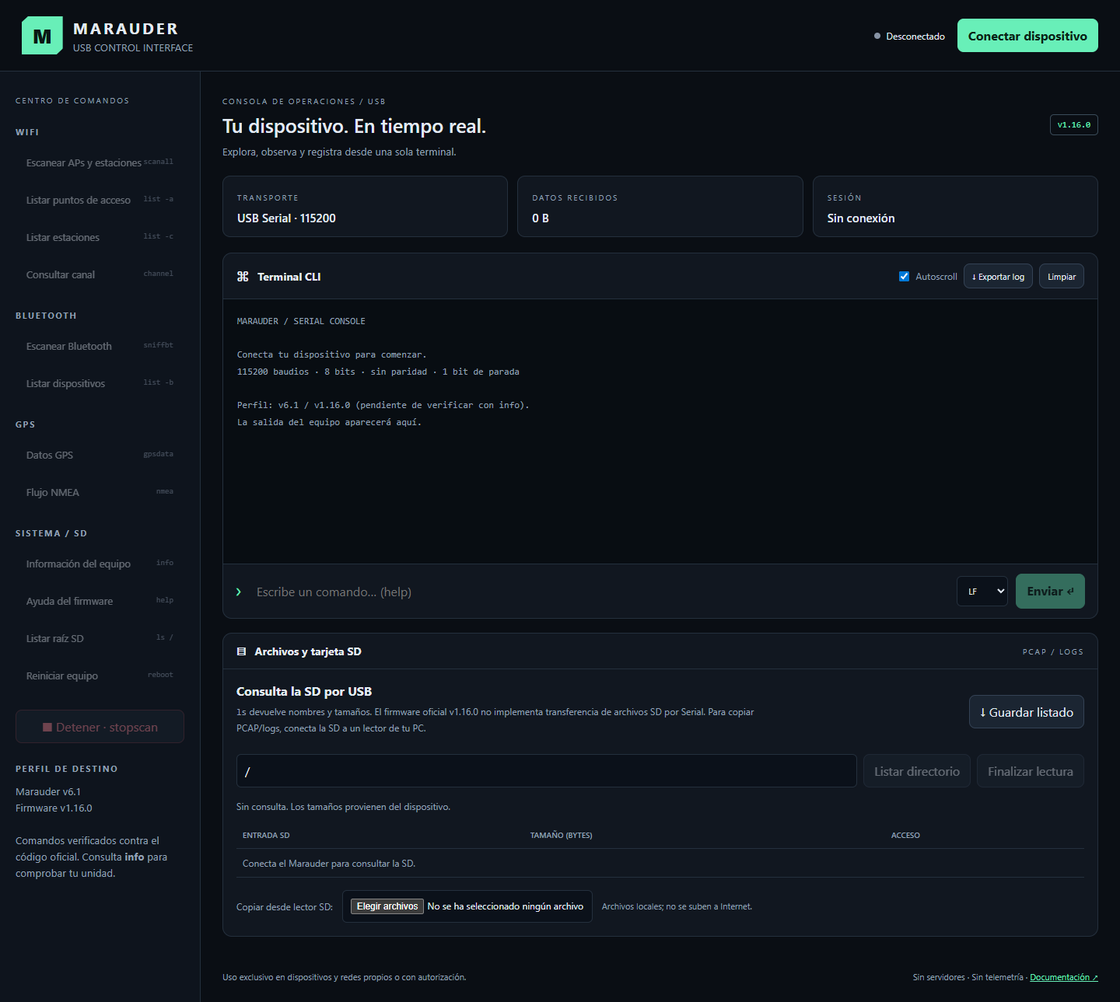
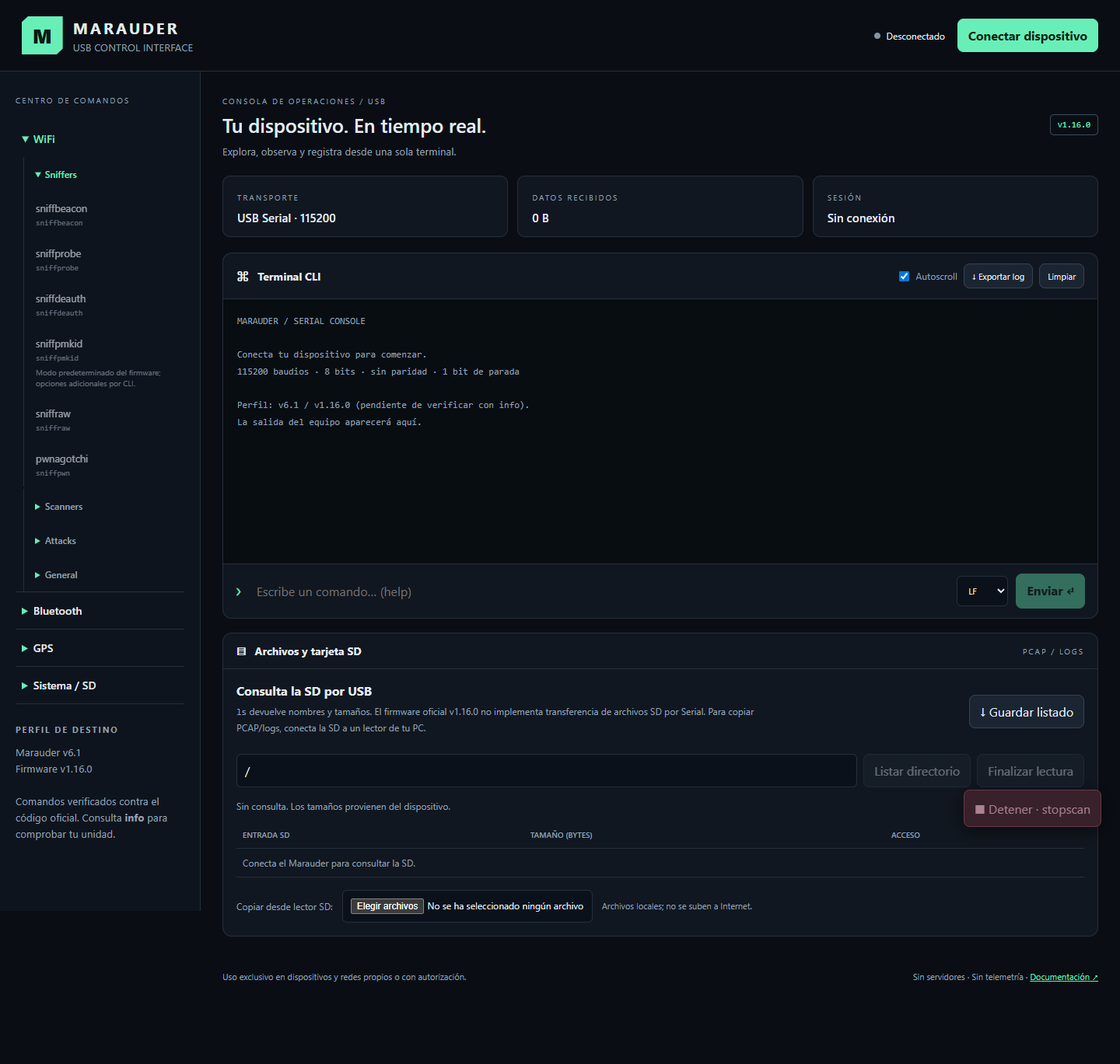
Replace sidebar with hierarchical firmware-mapped accordion controls

diff --git a/index.html b/index.html
@@ -7,11 +7,16 @@
 <title>Marauder · USB control</title>
 <style>
 :root{--bg:#0a0e14;--panel:#111720;--line:#24303d;--muted:#93a1b5;--text:#e4ebf4;--mint:#68efb8;--red:#ff8998;--blue:#8db9ff;font-family:Inter,Segoe UI,system-ui,sans-serif;color:var(--text);background:var(--bg)}*{box-sizing:border-box}body{margin:0}button,input,select{font:inherit}button{cursor:pointer;color:var(--text);background:#1b2532;border:1px solid #344255;border-radius:8px;padding:10px 13px;min-height:42px}button:hover:enabled{border-color:var(--mint);background:#22362f}button:disabled{opacity:.4;cursor:not-allowed}button:focus-visible,input:focus-visible,select:focus-visible,a:focus-visible{outline:2px solid var(--mint);outline-offset:3px}header{min-height:92px;border-bottom:1px solid var(--line);display:flex;align-items:center;justify-content:space-between;padding:20px 28px;gap:20px}.brand{display:flex;align-items:center;gap:13px}.logo{background:var(--mint);color:#0a1813;font-size:25px;font-weight:900;padding:8px 14px;clip-path:polygon(15% 0,100% 0,100% 85%,85% 100%,0 100%,0 15%)}h1{font-size:20px;letter-spacing:3px;margin:0}small,.muted{color:var(--muted)}.eyebrow{font-size:10px;letter-spacing:2px;text-transform:uppercase;color:var(--muted)}.connection{display:flex;align-items:center;gap:16px}.status{font-size:12px;display:flex;gap:8px;align-items:center}.dot{width:8px;height:8px;border-radius:50%;background:#8793a5}.online .dot{background:var(--mint);box-shadow:0 0 14px #68efb855}.primary{background:var(--mint);color:#092417;border-color:var(--mint);font-weight:700}.primary:hover:enabled{background:#98ffd1;color:#092417}.layout{display:grid;grid-template-columns:258px minmax(0,1fr);min-height:calc(100vh - 92px)}aside{padding:24px 20px;border-right:1px solid var(--line);background:#0e141d}h2{font-size:14px;margin:0}h3{font-size:11px;letter-spacing:1.8px;color:var(--muted);text-transform:uppercase;margin:25px 0 10px}.cmd{display:flex;width:100%;align-items:center;justify-content:space-between;margin:6px 0;background:transparent;border-color:transparent;text-align:left;font-size:13px}.cmd code{font-size:10px;color:var(--muted)}.stop{border-color:#683843;color:var(--red);width:100%;margin-top:18px}main{padding:25px 28px;min-width:0}.intro{display:flex;justify-content:space-between;align-items:center;gap:14px;margin-bottom:22px}.intro h2{font-size:25px;font-weight:600;margin:6px 0}.badge{border:1px solid #3a4c5a;border-radius:5px;padding:6px 9px;font:11px monospace;color:var(--mint)}.stats{display:grid;grid-template-columns:repeat(3,1fr);gap:12px;margin-bottom:20px}.stat{padding:14px 18px;background:var(--panel);border:1px solid var(--line);border-radius:10px}.stat strong{display:block;margin-top:8px;font-size:15px;font-weight:500}.panel{border:1px solid var(--line);border-radius:12px;overflow:hidden;background:var(--panel);margin-bottom:18px}.bar{display:flex;justify-content:space-between;align-items:center;padding:13px 17px;border-bottom:1px solid var(--line);gap:12px}.tools{display:flex;gap:8px;align-items:center;flex-wrap:wrap}.tools button{font-size:11px;padding:6px 10px;min-height:32px}.terminal{height:340px;overflow:auto;background:#080d12;padding:18px;margin:0;font:12px/1.8 Consolas,monospace;white-space:pre-wrap;overflow-wrap:anywhere;color:#c6d6e5}.terminal .sys{color:var(--muted)}.terminal .tx{color:var(--mint)}.terminal .error{color:var(--red)}form{display:flex;gap:10px;padding:12px 16px;align-items:center;border-top:1px solid var(--line)}.prompt{color:var(--mint);font-family:monospace}input,select{background:#0b111a;color:var(--text);border:1px solid var(--line);border-radius:6px;padding:10px;min-width:0}#command{flex:1;border:0;background:transparent}select{font-size:11px}label{font-size:12px;color:var(--muted)}.sd-body{padding:17px}.sd-top{display:flex;justify-content:space-between;gap:16px;align-items:center}.sd-top p{font-size:12px;line-height:1.65;max-width:670px;margin:7px 0;color:var(--muted)}.path{display:flex;gap:8px;margin:16px 0}.path input{flex:1}table{width:100%;border-collapse:collapse;font-size:12px}th,td{text-align:left;padding:10px 8px;border-bottom:1px solid var(--line);overflow-wrap:anywhere}th{font-size:10px;color:var(--muted);font-weight:500;text-transform:uppercase}.notice{font-size:12px;padding:12px 16px;border:1px solid #65502d;background:#221e15;border-radius:8px;color:#e6c68d;margin-bottom:18px}.foot{font-size:11px;color:var(--muted);display:flex;justify-content:space-between;gap:12px}.local{margin-top:16px;display:flex;align-items:center;gap:12px;flex-wrap:wrap}.local input{max-width:100%;font-size:12px}#message{font-size:12px;color:var(--red);min-height:18px;margin:8px 0}.check{display:flex;gap:6px;align-items:center}a{color:var(--mint)}@media(min-width:1500px){main{max-width:1400px;width:100%;margin:auto}.terminal{height:450px}}@media(max-width:900px){header{padding:16px}.layout{grid-template-columns:210px minmax(0,1fr)}aside{padding:16px 10px}main{padding:20px 16px}.cmd{display:block}.cmd code{display:block;margin-top:5px}.sd-top{display:block}.status{font-size:11px}.tools{gap:4px}.intro h2{font-size:21px}}@media(max-width:620px){header,.connection{flex-wrap:wrap}.layout{display:flex;flex-direction:column}aside{border-right:0;border-bottom:1px solid var(--line)}#groups{display:grid;grid-template-columns:1fr 1fr;gap:0 12px}h3{margin-top:16px}.cmd{display:flex}.cmd code{font-size:9px}.intro{align-items:flex-start}.stats{gap:6px}.stat{padding:12px 9px}.stat strong{font-size:12px}.bar{flex-wrap:wrap}.terminal{height:310px}form{flex-wrap:wrap}#command{min-width:60%}.foot{flex-direction:column}.path{flex-wrap:wrap}}
+
+/* Native details/summary: hierarchy works with mouse, Enter and Space, without toggle scripts. */
+aside{position:sticky;top:0;align-self:start;max-height:100vh;overflow:auto;padding-bottom:90px}
+#groups{display:block;margin-top:18px}details{border-bottom:1px solid var(--line)}summary{cursor:pointer;padding:14px 8px;font-size:14px;font-weight:600;min-height:44px}summary::marker{color:var(--mint)}summary:focus-visible{outline:2px solid var(--mint);outline-offset:-2px}details[open]>summary{color:var(--mint)}.submenu{margin-left:10px;border-bottom:0;border-left:1px solid var(--line);padding-left:6px}.submenu summary{font-size:12px;color:var(--muted)}.cmd{display:block;white-space:normal;overflow-wrap:anywhere;margin:3px 0;padding:9px 8px}.cmd code{display:block;margin-top:4px;line-height:1.4}.cmd small{display:block;font-size:10px;line-height:1.4;margin-top:4px}.cmd:disabled{opacity:.65}.cmd[data-unavailable]{border-left:2px solid #65502d}.stop{position:fixed;bottom:16px;right:24px;z-index:20;width:auto;margin:0;background:#38212a;box-shadow:0 4px 24px #0009;min-height:48px}.stop:disabled{opacity:1;color:#aa8390}body{padding-bottom:80px}.action-editor{margin:14px 0;padding:12px;border:1px solid var(--line);border-radius:8px;background:var(--panel)}.action-editor label{display:block;margin:10px 0}.action-editor input,.action-editor select{display:block;width:100%;margin-top:5px}.action-editor p{font-size:11px;color:var(--muted);line-height:1.5}.action-editor code{display:block;overflow-wrap:anywhere;font-size:11px;color:var(--mint);margin:12px 0}.action-editor button{width:100%;margin-top:6px}.action-error{color:var(--red)!important}#actionTitle{font-size:14px;overflow-wrap:anywhere}
+@media(max-width:620px){aside{position:static;max-height:340px;padding-bottom:16px}#groups{display:block}.stop{bottom:10px;right:10px;left:10px;width:calc(100% - 20px)}}
 </style>
 </head>
 <body>
 <header><div class="brand"><div class="logo" aria-hidden="true">M</div><div><h1>MARAUDER</h1><small>USB CONTROL INTERFACE</small></div></div><div class="connection"><span id="status" class="status" role="status"><i class="dot"></i><span id="stateText">Desconectado</span></span><button id="connect" class="primary">Conectar dispositivo</button></div></header>
-<div class="layout"><aside><span class="eyebrow">Centro de comandos</span><div id="groups"></div><button class="stop" data-command="stopscan">■ Detener · stopscan</button><h3>Perfil de destino</h3><small>Marauder v6.1<br>Firmware v1.16.0<br><br>Comandos verificados contra el código oficial. Consulta <b>info</b> para comprobar tu unidad.</small></aside>
+<div class="layout"><aside><span class="eyebrow">Centro de comandos</span><nav id="groups" aria-label="Menú del Marauder"></nav><section id="actionEditor" class="action-editor" hidden aria-labelledby="actionTitle"><h2 id="actionTitle"></h2><p id="actionHelp"></p><div id="actionFields"></div><code id="actionPreview"></code><p id="actionError" class="action-error" role="alert"></p><button id="runAction" class="primary">Enviar comando</button><button id="cancelAction">Cerrar configuración</button></section><button class="stop" data-command="stopscan">■ Detener · stopscan</button><h3>Perfil de destino</h3><small>Marauder v6.1<br>Firmware v1.16.0<br><br>Comandos verificados contra el código oficial. Consulta <b>info</b> para comprobar tu unidad.</small></aside>
 <main><div class="intro"><div><span class="eyebrow">Consola de operaciones / USB</span><h2>Tu dispositivo. En tiempo real.</h2><small>Explora, observa y registra desde una sola terminal.</small></div><span class="badge">v1.16.0</span></div>
 <div id="compat" class="notice" hidden></div><div class="stats"><div class="stat"><span class="eyebrow">Transporte</span><strong>USB Serial · 115200</strong></div><div class="stat"><span class="eyebrow">Datos recibidos</span><strong id="rx">0 B</strong></div><div class="stat"><span class="eyebrow">Sesión</span><strong id="session">Sin conexión</strong></div></div>
 <section class="panel" aria-label="Terminal CLI"><div class="bar"><h2>⌘ &nbsp; Terminal CLI</h2><div class="tools"><label class="check"><input id="autoscroll" type="checkbox" checked>Autoscroll</label><button id="export">↓ Exportar log</button><button id="clear">Limpiar</button></div></div><pre id="terminal" class="terminal" tabindex="0" aria-label="Salida del puerto serie"></pre><form id="cli"><span class="prompt">❯</span><input id="command" aria-label="Comando CLI" placeholder="Escribe un comando… (help)" autocomplete="off" spellcheck="false" maxlength="512"><select id="eol" aria-label="Fin de línea"><option value="lf">LF</option><option value="crlf">CRLF</option></select><button id="send" class="primary" type="submit">Enviar ↵</button></form></section>
@@ -22,14 +27,43 @@
 const $=id=>document.getElementById(id);
 // Source: upstream v1.16.0, commit fe2160f0aa53ad8e6c5860f8dddd6e7bbaa3ba0b.
 // scanap is absent in this version. scanall scans APs AND stations.
-const COMMANDS={WiFi:[['Escanear APs y estaciones','scanall'],['Listar puntos de acceso','list -a'],['Listar estaciones','list -c'],['Consultar canal','channel']],Bluetooth:[['Escanear Bluetooth','sniffbt'],['Listar dispositivos','list -b']],GPS:[['Datos GPS','gpsdata'],['Flujo NMEA','nmea']], 'Sistema / SD':[['Información del equipo','info'],['Ayuda del firmware','help'],['Listar raíz SD','ls /'],['Reiniciar equipo','reboot']]};
-for(const [group,commands] of Object.entries(COMMANDS)){const section=document.createElement('section'),h=document.createElement('h3');h.textContent=group;section.append(h);for(const [label,command] of commands){const b=document.createElement('button');b.className='cmd';b.dataset.command=command;const name=document.createElement('span'),code=document.createElement('code');name.textContent=label;code.textContent=command;b.append(name,code);section.append(b)}$('groups').append(section)}
+const entry=(label,command=label,note='')=>({label,command,note});
+const unavailable=(label,note)=>({label,command:'',note,unavailable:true});
+const choice=(label,options)=>({label,options});
+const indexField=(label='Índice (consulta la lista del dispositivo)')=>({label,type:'number',min:0,max:65535});
+const configured=(label,command,fields,build,note='')=>({label,command,fields,build,note});
+const targetAction=(label,command,flag,note)=>configured(label,command+' '+flag+' <índice>',[indexField()],v=>command+' '+flag+' '+v[0],note);
+const MENU={
+ WiFi:{
+  Sniffers:[entry('sniffbeacon'),entry('sniffprobe'),entry('sniffdeauth'),entry('sniffpmkid','sniffpmkid','Modo predeterminado del firmware; opciones adicionales por CLI.'),entry('sniffraw'),entry('pwnagotchi','sniffpwn')],
+  Scanners:[entry('scanall'),entry('scanap','sniffbeacon','Equivalente de observación de AP por beacons; scanap no existe en esta versión.'),unavailable('scansta','Sin escaneo CLI exclusivo de estaciones. Usa scanall y después list -c.'),entry('pingscan'),entry('arpscan'),targetAction('portscan','portscan -a','-t','Índice de IP obtenido con list -i; requiere conexión a la red.'),entry('sshescan','portscan -s ssh'),entry('dnsscan','portscan -s dns'),entry('httpsscan','portscan -s https'),entry('Listar APs','list -a'),entry('Listar estaciones','list -c'),entry('Listar IPs','list -i')],
+  Attacks:[entry('deauth','attack -t deauth','Requiere objetivos seleccionados con select.'),configured('beaconspam','attack -t beacon <modo>',[choice('Origen de beacons',[['-r','Aleatorios'],['-l','Lista SSID'],['-a','Lista AP']])],v=>'attack -t beacon '+v[0]),entry('rickroll','attack -t rickroll'),entry('probespam','attack -t probe'),targetAction('karma','karma','-p','Índice de SSID de probe; consulta list -p.'),entry('badmsg','attack -t badmsg'),entry('saecommit','attack -t sae')],
+  General:[configured('clearlist','clearlist <lista>',[choice('Lista',[['-a','APs'],['-c','Estaciones'],['-s','SSID']])],v=>'clearlist '+v[0]),configured('join','join -a <índice> -p <contraseña>',[indexField('Índice AP (list -a)'),{label:'Contraseña',type:'password'}],v=>'join -a '+v[0]+' -p '+quoteArgument(v[1]),'El firmware imprime la contraseña en su respuesta: estará en el log de sesión.'),entry('Conectar red guardada','join -s'),configured('setmac','randapmac / randstamac / clone…',[choice('Operación',[['randapmac','MAC AP aleatoria'],['randstamac','MAC estación aleatoria'],['cloneapmac','Clonar AP de lista'],['clonestamac','Clonar estación de lista']]),{...indexField('Índice para clonar (ignorado al aleatorizar)'),optional:true}],v=>{if(v[0].startsWith('clone')&&!/^\d+$/.test(v[1]))throw new Error('Introduce el índice que quieres clonar.');return v[0]+(v[0]==='cloneapmac'?' -a '+v[1]:v[0]==='clonestamac'?' -s '+v[1]:'')},'No existe setmac literal ni asignación CLI de MAC arbitraria en esta versión.'),unavailable('shutdown','La función física de apagar WiFi no está expuesta por la CLI.'),unavailable('startap','No existe este comando CLI. No se sustituye por un portal de otra función.'),unavailable('stopap','No existe este comando CLI. stopscan detiene modos de escaneo compatibles.'),configured('Seleccionar objetivos','select <lista> <índice>',[choice('Lista',[['-a','AP'],['-c','Estación'],['-s','SSID']]),indexField()],v=>'select '+v[0]+' '+v[1],'El firmware alterna la selección del índice. Comprueba el resultado con list.'),entry('Listar SSID de probes','list -p'),entry('Canal actual','channel')]
+ },
+ Bluetooth:{
+  Sniffers:[entry('sniffbt'),unavailable('sniffraw','sniffraw pertenece a WiFi; no hay equivalente Bluetooth raw en esta CLI.'),targetAction('findmy','findmy','-t','Hace sonar el AirTag seleccionado (list -t); depende de HAS_NIMBLE_2 y del dispositivo, no es un escaneo.'),entry('flock','sniffbt -t flock'),entry('metadetect','sniffbt -t meta'),entry('skimmer','sniffskim'),entry('Detectar AirTags','sniffbt -t airtag'),entry('Listar AirTags','list -t'),entry('Listar Bluetooth','list -b')],
+  Attacks:[configured('blespam','blespam -t <tipo>',[choice('Tipo',[['all','Todos'],['sourapple','SourApple'],['applejuice','AppleJuice'],['windows','Windows'],['samsung','Samsung'],['google','Google'],['flipper','Flipper']])],v=>'blespam -t '+v[0]),targetAction('spoofairtag','spoofat','-t','Índice de AirTag de list -t.'),entry('sourapple','blespam -t sourapple'),entry('applejuice','blespam -t applejuice'),entry('swiftpair','blespam -t windows'),entry('samsungspam','blespam -t samsung'),entry('googlespam','blespam -t google'),entry('flipperspam','blespam -t flipper')]
+ },
+ GPS:[entry('gpsdata'),entry('gps sat','gps -g sat'),entry('tracker start','gpstracker -c start'),entry('tracker stop','gpstracker -c stop'),entry('wardrive'),entry('NMEA','nmea')],
+ 'Sistema / SD':[entry('info'),entry('reboot'),entry('ls /'),entry('backup','backupspiffs','Copia SPIFFS a /spiffs en la SD; no es una imagen completa del firmware.'),entry('restore','restorespiffs','Restaura SPIFFS desde /spiffs en SD y puede sobrescribir su contenido.'),configured('brightness','brightness -s <0–9>',[{label:'Nivel de brillo (0–9)',type:'number',min:0,max:9}],v=>'brightness -s '+v[0]),entry('Consultar brillo','brightness'),entry('Estado de backup','backupstatus'),entry('Ayuda','help')]
+};
+const ACTIONS=new Map();
+function appendButtons(parent,items){for(const item of items){const b=document.createElement('button');b.className='cmd';b.dataset.command=item.command;b.dataset.label=item.label;const label=document.createElement('span'),code=document.createElement('code');label.textContent=item.label;code.textContent=item.unavailable?'No disponible en CLI v1.16.0':item.command;b.append(label,code);if(item.note){const note=document.createElement('small');note.textContent=item.note;b.append(note)}if(item.unavailable){b.dataset.unavailable='true';b.disabled=true}if(item.fields){const id=String(ACTIONS.size);ACTIONS.set(id,item);b.dataset.action=id}parent.append(b)}}
+for(const [group,content] of Object.entries(MENU)){const details=document.createElement('details'),summary=document.createElement('summary');details.name='marauder-sections';summary.textContent=group;details.append(summary);if(Array.isArray(content))appendButtons(details,content);else for(const [name,items] of Object.entries(content)){const sub=document.createElement('details'),title=document.createElement('summary');sub.className='submenu';title.textContent=name;sub.append(title);appendButtons(sub,items);details.append(sub)}$('groups').append(details)}
+function quoteArgument(value){if(!value.includes('"'))return '"'+value+'"';if(!value.includes("'"))return "'"+value+"'";throw new Error('El parser del firmware no admite ambos tipos de comillas en este argumento.');}
+let activeAction=null,actionTrigger=null;
+function buildAction(){const values=[...$('actionFields').querySelectorAll('input,select')].map(input=>{if(!input.checkValidity())throw new Error('Completa los parámetros con valores válidos.');return input.type==='number'&&input.value!==''?String(Number(input.value)):input.value});return activeAction.build(values)}
+function updatePreview(){try{$('actionPreview').textContent=activeAction.label==='join'?'join -a <índice> -p [contraseña oculta]':buildAction()}catch{$('actionPreview').textContent=activeAction.command}}
+function openAction(item,trigger){activeAction=item;actionTrigger=trigger;$('actionTitle').textContent=item.label;$('actionHelp').textContent=item.note||'Configura los parámetros y envía el comando.';$('actionError').textContent='';$('actionFields').replaceChildren();for(const field of item.fields){const label=document.createElement('label');label.textContent=field.label;const input=document.createElement(field.options?'select':'input');if(field.options){for(const [value,text] of field.options){const option=document.createElement('option');option.value=value;option.textContent=text;input.append(option)}}else{input.type=field.type;input.required=!field.optional;if(field.type==='number'){input.min=field.min;input.max=field.max;input.step=1}else{input.maxLength=128;input.autocomplete='off'}}input.oninput=updatePreview;label.append(input);$('actionFields').append(label)}$('actionEditor').hidden=false;updatePreview();$('actionFields').querySelector('input,select').focus();refresh()}
+$('cancelAction').onclick=()=>{$('actionEditor').hidden=true;$('actionFields').replaceChildren();activeAction=null;actionTrigger?.focus()};
+$('runAction').onclick=async()=>{try{if(!activeAction||state!=='connected'||listing)return;const command=buildAction();await send(command);$('actionError').textContent='';if(activeAction.label==='join')$('actionFields').querySelector('input[type=password]').value=''}catch(e){$('actionError').textContent=e.message}};
+
 let port=null,reader=null,readTask=null,closing=null,state='disconnected',txQueue=Promise.resolve(),rxBytes=0,started=0;
 let transcript='',displayPending=false,events=[],history=[],historyIndex=0,listing=null,lastListing='',listingRows=[];
 const MAX_LOG=2*1024*1024,MAX_VIEW=250000;
 function log(text,type='rx'){transcript=(transcript+text).slice(-MAX_LOG);events.push({text,type});if(!displayPending){displayPending=true;requestAnimationFrame(()=>{displayPending=false;for(const e of events){const span=document.createElement('span');span.className=e.type;span.textContent=e.text;$('terminal').append(span)}events=[];while($('terminal').textContent.length>MAX_VIEW&&$('terminal').childNodes.length>1)$('terminal').firstChild.remove();if($('terminal').textContent.length>MAX_VIEW)$('terminal').lastChild.textContent=$('terminal').lastChild.textContent.slice(-MAX_VIEW);if($('autoscroll').checked)$('terminal').scrollTop=$('terminal').scrollHeight})}}
 function error(e){$('message').textContent=e.message||String(e);log('\n[error] '+$('message').textContent+'\n','error')}
-function refresh(){const connected=state==='connected',busy=state==='connecting'||state==='closing';$('connect').disabled=busy||!('serial'in navigator)||!isSecureContext;$('connect').textContent=connected?'Desconectar':busy?'Procesando…':'Conectar dispositivo';$('stateText').textContent=({connected:'Conectado',disconnected:'Desconectado',connecting:'Conectando',closing:'Cerrando puerto'})[state];$('status').classList.toggle('online',connected);document.querySelectorAll('[data-command]').forEach(b=>b.disabled=!connected||!!listing);$('send').disabled=!connected||!!listing;$('listSD').disabled=!connected||!!listing;$('finishList').disabled=!listing}
+function refresh(){const connected=state==='connected',busy=state==='connecting'||state==='closing';$('connect').disabled=busy||!('serial'in navigator)||!isSecureContext;$('connect').textContent=connected?'Desconectar':busy?'Procesando…':'Conectar dispositivo';$('stateText').textContent=({connected:'Conectado',disconnected:'Desconectado',connecting:'Conectando',closing:'Cerrando puerto'})[state];$('status').classList.toggle('online',connected);document.querySelectorAll('[data-command]').forEach(b=>b.disabled=!connected||b.hasAttribute('data-unavailable')||(!!listing&&b.dataset.command!=='stopscan'));$('send').disabled=!connected||!!listing;$('listSD').disabled=!connected||!!listing;$('finishList').disabled=!listing;$('runAction').disabled=!connected||!!listing}
 async function connect(){if(state!=='disconnected')return;state='connecting';refresh();$('message').textContent='';try{port=await navigator.serial.requestPort();await port.open({baudRate:115200,dataBits:8,stopBits:1,parity:'none',flowControl:'none'});rxBytes=0;$('rx').textContent='0 B';started=Date.now();state='connected';log('\n[USB] Puerto abierto · 115200 / 8N1. Ejecuta info y help.\n','sys');readTask=readLoop(port);refresh()}catch(e){if(port){try{await port.close()}catch{}}port=null;state='disconnected';refresh();if(e.name!=='NotFoundError')error(e)}}
 async function readLoop(activePort){const decoder=new TextDecoder();try{reader=activePort.readable.getReader();while(state==='connected'){const {value,done}=await reader.read();if(done)break;rxBytes+=value.byteLength;$('rx').textContent=rxBytes.toLocaleString('es')+' B';const text=decoder.decode(value,{stream:true});log(text);receiveListing(text)}const tail=decoder.decode();if(tail){log(tail);receiveListing(tail)}}catch(e){if(state==='connected')error(e)}finally{if(reader){reader.releaseLock();reader=null}if(state==='connected')queueMicrotask(()=>disconnect())}}
 async function disconnect(){if(closing)return closing;if(!port)return;state='closing';refresh();closing=(async()=>{finishListing('Lectura interrumpida al cerrar el puerto.');try{if(reader)await reader.cancel();if(readTask)await readTask;await txQueue;await port.close()}catch(e){error(e)}finally{port=null;readTask=null;state='disconnected';started=0;$('session').textContent='Sin conexión';log('\n[USB] Puerto cerrado. Desconectar USB no detiene un escaneo autónomo.\n','sys');closing=null;refresh()}})();return closing}
@@ -40,7 +74,13 @@ function receiveListing(text){if(!listing)return;listing.raw=(listing.raw+text).
 async function listSD(){if(listing)return;const path=$('path').value.trim();if(!/^\/[^\s\x00-\x1f"'\\]*$/.test(path)){error(new Error('Usa una ruta absoluta sin espacios, comillas ni controles, por ejemplo / o /logs.'));return}listingRows=[];lastListing='';$('files').replaceChildren();$('listingStatus').textContent='Leyendo respuesta. Pulsa Finalizar lectura cuando termine; ls no incluye marcador de fin.';listing={raw:'',pending:'',timeout:setTimeout(()=>finishListing('Ventana de 30 s cerrada. El listado puede estar incompleto; repite si es necesario.'),30000)};refresh();try{await send('ls '+path)}catch(e){finishListing('No se pudo consultar la SD.');error(e)}}
 function download(content,name,type='text/plain;charset=utf-8'){const url=URL.createObjectURL(content instanceof Blob?content:new Blob([content],{type})),a=document.createElement('a');a.href=url;a.download=name;a.click();setTimeout(()=>URL.revokeObjectURL(url),30000)}
 $('connect').onclick=()=>{if(state==='connected')void disconnect();else void connect()};
-document.querySelectorAll('[data-command]').forEach(b=>b.onclick=()=>{if(b.dataset.command==='ls /'){$('path').value='/';void listSD()}else void send(b.dataset.command).catch(error)});
+document.querySelectorAll('[data-command]').forEach(b=>b.onclick=()=>{
+ if(b.hasAttribute('data-unavailable'))return;
+ if(b.dataset.command==='stopscan'){finishListing('Consulta SD finalizada para enviar stopscan.');void send('stopscan').catch(error);return}
+ if(b.dataset.action){openAction(ACTIONS.get(b.dataset.action),b);return}
+ if(b.dataset.command==='ls /'){$('path').value='/';void listSD();return}
+ void send(b.dataset.command).catch(error);
+});
 $('cli').onsubmit=async e=>{e.preventDefault();if(listing)return;const value=$('command').value.trim();try{await send(value);history.push(value);history=history.slice(-100);historyIndex=history.length;$('command').value=''}catch(e){error(e)}};
 $('command').onkeydown=e=>{if(!['ArrowUp','ArrowDown'].includes(e.key))return;e.preventDefault();historyIndex=Math.max(0,Math.min(history.length,historyIndex+(e.key==='ArrowUp'?-1:1)));$('command').value=history[historyIndex]||''};
 $('listSD').onclick=listSD;$('finishList').onclick=()=>finishListing();$('saveListing').onclick=()=>download(listing?listing.raw:lastListing,'marauder-sd-listing.txt');

diff --git a/README.md b/README.md
@@ -17,25 +17,87 @@ Interfaz web autónoma en español para controlar un **ESP32 Marauder v6.1**, co
 
 El mapeo se verificó contra el **tag oficial v1.16.0**, commit `fe2160f0aa53ad8e6c5860f8dddd6e7bbaa3ba0b`, en [CommandLine.h](https://github.com/justcallmekoko/ESP32Marauder/blob/fe2160f0aa53ad8e6c5860f8dddd6e7bbaa3ba0b/esp32_marauder/CommandLine.h) y [CommandLine.cpp](https://github.com/justcallmekoko/ESP32Marauder/blob/fe2160f0aa53ad8e6c5860f8dddd6e7bbaa3ba0b/esp32_marauder/CommandLine.cpp).
 
-**`scanap` no existe en ese código.** Se utiliza `scanall`, que escanea puntos de acceso y estaciones. La terminal permite introducir comandos propios de un fork, pero no se presupone que sean compatibles con el firmware oficial.
+El menú jerárquico reproduce las categorías solicitadas del dispositivo: **WiFi → Sniffers / Scanners / Attacks / General**, **Bluetooth → Sniffers / Attacks**, **GPS** y **Sistema / SD**. Usa elementos HTML nativos `details` / `summary` y CSS, sin scripts de apertura. Tab mueve el foco; Enter o Espacio abre/cierra un nivel. El menú tiene desplazamiento independiente y la terminal central conserva su funcionamiento.
 
-| Categoría | Botón | Comando exacto |
-| --- | --- | --- |
-| WiFi | Escanear APs y estaciones | `scanall` |
-| WiFi | Listar puntos de acceso | `list -a` |
-| WiFi | Listar estaciones | `list -c` |
-| WiFi | Consultar canal | `channel` |
-| Bluetooth | Escanear Bluetooth | `sniffbt` |
-| Bluetooth | Listar dispositivos | `list -b` |
-| GPS | Datos GPS | `gpsdata` |
-| GPS | Flujo NMEA | `nmea` |
-| Sistema | Información | `info` |
-| Sistema | Ayuda | `help` |
-| Sistema | Reiniciar | `reboot` |
-| SD | Listar raíz | `ls /` |
-| Global | Detener | `stopscan` |
+Las etiquetas físicas no siempre coinciden con comandos CLI. Cada botón muestra la sintaxis realmente enviada. **No se envían nombres inventados**: por ejemplo, `pwnagotchi` usa `sniffpwn`. `scanap` no existe literalmente: su botón usa `sniffbeacon` para observar AP mediante beacons. `scanall` observa AP y estaciones. Cinco entradas quedan deshabilitadas con explicación: `scansta`, `shutdown`, `startap`, `stopap` y `sniffraw` dentro de Bluetooth. Por eso la GUI no sustituye funciones físicas que el firmware no expone por Serial.
 
-GPS y Bluetooth dependen de las capacidades compiladas y del hardware presente. `gpsdata` y `nmea` inician flujos; usa `stopscan` antes de cambiar de operación. `reboot` pide confirmación en la interfaz.
+Los botones que necesitan parámetros abren un editor en la barra lateral con validación y vista previa: portscan, beaconspam, karma, clearlist, join, setmac, selección de objetivos, findmy, blespam, spoofairtag y brightness. No envían plantillas incompletas. Para acciones basadas en índices, consulta primero la lista del dispositivo. Los índices se validan como enteros no negativos; su existencia y los requisitos de la operación los determina el firmware.
+
+**Detener** permanece fijo en el borde inferior incluso al desplazar el menú o la página. Envía `stopscan` y cancela primero la recogida local del listado SD, si está activa. Solo se habilita con conexión. Es una solicitud al firmware: no garantiza interrumpir operaciones bloqueantes ni reemplaza el reinicio o apagado físico. Los comandos GPS/Bluetooth dependen del hardware y de las opciones de compilación; detén una operación antes de iniciar otra.
+
+| Categoría | Subcategoría | Etiqueta | CLI enviada / plantilla | Nota |
+| --- | --- | --- | --- | --- |
+| WiFi | Sniffers | `sniffbeacon` | `sniffbeacon` | — |
+| WiFi | Sniffers | `sniffprobe` | `sniffprobe` | — |
+| WiFi | Sniffers | `sniffdeauth` | `sniffdeauth` | — |
+| WiFi | Sniffers | `sniffpmkid` | `sniffpmkid` | Modo predeterminado del firmware; opciones adicionales por CLI. |
+| WiFi | Sniffers | `sniffraw` | `sniffraw` | — |
+| WiFi | Sniffers | `pwnagotchi` | `sniffpwn` | — |
+| WiFi | Scanners | `scanall` | `scanall` | — |
+| WiFi | Scanners | `scanap` | `sniffbeacon` | Equivalente de observación de AP por beacons; scanap no existe en esta versión. |
+| WiFi | Scanners | `scansta` | No disponible | Sin escaneo CLI exclusivo de estaciones. Usa scanall y después list -c. |
+| WiFi | Scanners | `pingscan` | `pingscan` | — |
+| WiFi | Scanners | `arpscan` | `arpscan` | — |
+| WiFi | Scanners | `portscan` | `portscan -a -t <índice>` | Índice de IP obtenido con list -i; requiere conexión a la red. |
+| WiFi | Scanners | `sshescan` | `portscan -s ssh` | — |
+| WiFi | Scanners | `dnsscan` | `portscan -s dns` | — |
+| WiFi | Scanners | `httpsscan` | `portscan -s https` | — |
+| WiFi | Scanners | `Listar APs` | `list -a` | — |
+| WiFi | Scanners | `Listar estaciones` | `list -c` | — |
+| WiFi | Scanners | `Listar IPs` | `list -i` | — |
+| WiFi | Attacks | `deauth` | `attack -t deauth` | Requiere objetivos seleccionados con select. |
+| WiFi | Attacks | `beaconspam` | `attack -t beacon <modo>` | — |
+| WiFi | Attacks | `rickroll` | `attack -t rickroll` | — |
+| WiFi | Attacks | `probespam` | `attack -t probe` | — |
+| WiFi | Attacks | `karma` | `karma -p <índice>` | Índice de SSID de probe; consulta list -p. |
+| WiFi | Attacks | `badmsg` | `attack -t badmsg` | — |
+| WiFi | Attacks | `saecommit` | `attack -t sae` | — |
+| WiFi | General | `clearlist` | `clearlist <lista>` | — |
+| WiFi | General | `join` | `join -a <índice> -p <contraseña>` | El firmware imprime la contraseña en su respuesta: estará en el log de sesión. |
+| WiFi | General | `Conectar red guardada` | `join -s` | — |
+| WiFi | General | `setmac` | `randapmac / randstamac / clone…` | No existe setmac literal ni asignación CLI de MAC arbitraria en esta versión. |
+| WiFi | General | `shutdown` | No disponible | La función física de apagar WiFi no está expuesta por la CLI. |
+| WiFi | General | `startap` | No disponible | No existe este comando CLI. No se sustituye por un portal de otra función. |
+| WiFi | General | `stopap` | No disponible | No existe este comando CLI. stopscan detiene modos de escaneo compatibles. |
+| WiFi | General | `Seleccionar objetivos` | `select <lista> <índice>` | El firmware alterna la selección del índice. Comprueba el resultado con list. |
+| WiFi | General | `Listar SSID de probes` | `list -p` | — |
+| WiFi | General | `Canal actual` | `channel` | — |
+| Bluetooth | Sniffers | `sniffbt` | `sniffbt` | — |
+| Bluetooth | Sniffers | `sniffraw` | No disponible | sniffraw pertenece a WiFi; no hay equivalente Bluetooth raw en esta CLI. |
+| Bluetooth | Sniffers | `findmy` | `findmy -t <índice>` | Hace sonar el AirTag seleccionado (list -t); depende de HAS_NIMBLE_2 y del dispositivo, no es un escaneo. |
+| Bluetooth | Sniffers | `flock` | `sniffbt -t flock` | — |
+| Bluetooth | Sniffers | `metadetect` | `sniffbt -t meta` | — |
+| Bluetooth | Sniffers | `skimmer` | `sniffskim` | — |
+| Bluetooth | Sniffers | `Detectar AirTags` | `sniffbt -t airtag` | — |
+| Bluetooth | Sniffers | `Listar AirTags` | `list -t` | — |
+| Bluetooth | Sniffers | `Listar Bluetooth` | `list -b` | — |
+| Bluetooth | Attacks | `blespam` | `blespam -t <tipo>` | — |
+| Bluetooth | Attacks | `spoofairtag` | `spoofat -t <índice>` | Índice de AirTag de list -t. |
+| Bluetooth | Attacks | `sourapple` | `blespam -t sourapple` | — |
+| Bluetooth | Attacks | `applejuice` | `blespam -t applejuice` | — |
+| Bluetooth | Attacks | `swiftpair` | `blespam -t windows` | — |
+| Bluetooth | Attacks | `samsungspam` | `blespam -t samsung` | — |
+| Bluetooth | Attacks | `googlespam` | `blespam -t google` | — |
+| Bluetooth | Attacks | `flipperspam` | `blespam -t flipper` | — |
+| GPS | — | `gpsdata` | `gpsdata` | — |
+| GPS | — | `gps sat` | `gps -g sat` | — |
+| GPS | — | `tracker start` | `gpstracker -c start` | — |
+| GPS | — | `tracker stop` | `gpstracker -c stop` | — |
+| GPS | — | `wardrive` | `wardrive` | — |
+| GPS | — | `NMEA` | `nmea` | — |
+| Sistema / SD | — | `info` | `info` | — |
+| Sistema / SD | — | `reboot` | `reboot` | — |
+| Sistema / SD | — | `ls /` | `ls /` | — |
+| Sistema / SD | — | `backup` | `backupspiffs` | Copia SPIFFS a /spiffs en la SD; no es una imagen completa del firmware. |
+| Sistema / SD | — | `restore` | `restorespiffs` | Restaura SPIFFS desde /spiffs en SD y puede sobrescribir su contenido. |
+| Sistema / SD | — | `brightness` | `brightness -s <0–9>` | — |
+| Sistema / SD | — | `Consultar brillo` | `brightness` | — |
+| Sistema / SD | — | `Estado de backup` | `backupstatus` | — |
+| Sistema / SD | — | `Ayuda` | `help` | — |
+
+`backup` y `restore` operan sobre **SPIFFS**, no sobre una imagen completa del equipo. La restauración puede sobrescribir datos. `findmy` hace sonar un AirTag seleccionado cuando la compilación lo admite; no es un sniffer. `setmac` ofrece aleatorización o clonación desde listas, no una MAC arbitraria.
+
+**Credenciales de join:** el firmware imprime la contraseña en su respuesta Serial, que queda en la terminal y en el log exportable. El editor oculta el campo y la vista previa, pero no filtra la respuesta del dispositivo. Revisa los logs antes de compartirlos.
 
 El perfil solicitado indica ESP-IDF `v5.5.1-710-g8410210c9a`, WSL Bypass habilitado, SD conectada de 3839 MB y monitor de batería no soportado. Son datos proporcionados para la unidad, **no mediciones realizadas por esta aplicación**. Las MAC del propietario no se incluyen en el repositorio. Ejecuta `info` y `help` para verificar tu compilación real. El nombre de versión por sí solo no identifica cambios de un fork.
 
@@ -71,7 +133,7 @@ El comando `ls <directorio>` de v1.16.0 devuelve líneas `nombre<TAB>tamaño`. [
 2. Introduce `/` o una ruta absoluta sin espacios/comillas y pulsa **Listar directorio**.
 3. Se recogen respuestas fragmentadas del puerto y se reconocen líneas con nombre y tamaño.
 4. Pulsa **Finalizar lectura** cuando termine. A los 30 segundos se cierra la ventana de recepción con un aviso de posible resultado incompleto.
-5. Usa **Guardar listado** para exportar el texto recibido. La consulta bloquea temporalmente otros botones de envío para reducir respuestas mezcladas; puedes finalizarla en cualquier momento.
+5. Usa **Guardar listado** para exportar el texto recibido. La consulta bloquea temporalmente otros botones de envío para reducir respuestas mezcladas; Detener permanece habilitado y cierra la consulta antes de enviar stopscan.
 
 Una SD vacía, ausente o una ruta inválida pueden no producir salida. La aplicación no puede distinguirlas de forma fiable solo con `ls`. El listado no indica éxito ni integridad. Se muestran hasta 2000 entradas y se retienen hasta 2 MiB de texto.
 
@@ -129,7 +191,7 @@ npx playwright install chromium
 node tests/browser.cjs
 ```
 
-La prueba levanta un servidor temporal en localhost y simula `navigator.serial`: apertura a 115200, comandos y LF/CRLF, UTF-8 fragmentado, texto no confiable, listado SD fragmentado, rechazo de caracteres de control, copia binaria, desconexión/reconexión y adaptación móvil/tablet. Regenera las capturas de `docs/`.
+La prueba levanta un servidor temporal en localhost y simula `navigator.serial`: apertura a 115200, comandos y LF/CRLF, UTF-8 fragmentado, texto no confiable, listado SD fragmentado, rechazo de caracteres de control, copia binaria, desconexión/reconexión y adaptación móvil/tablet. También verifica navegación por teclado del acordeón, equivalencias CLI, opciones no disponibles, validación de parámetros y visibilidad de Detener durante la consulta SD y al desplazar una pantalla móvil. Regenera las capturas de `docs/`.
 
 Para usar Edge instalado, establece `BROWSER_CHANNEL=msedge` en el entorno. `PLAYWRIGHT_MODULE` permite indicar una instalación externa de Playwright.
 
